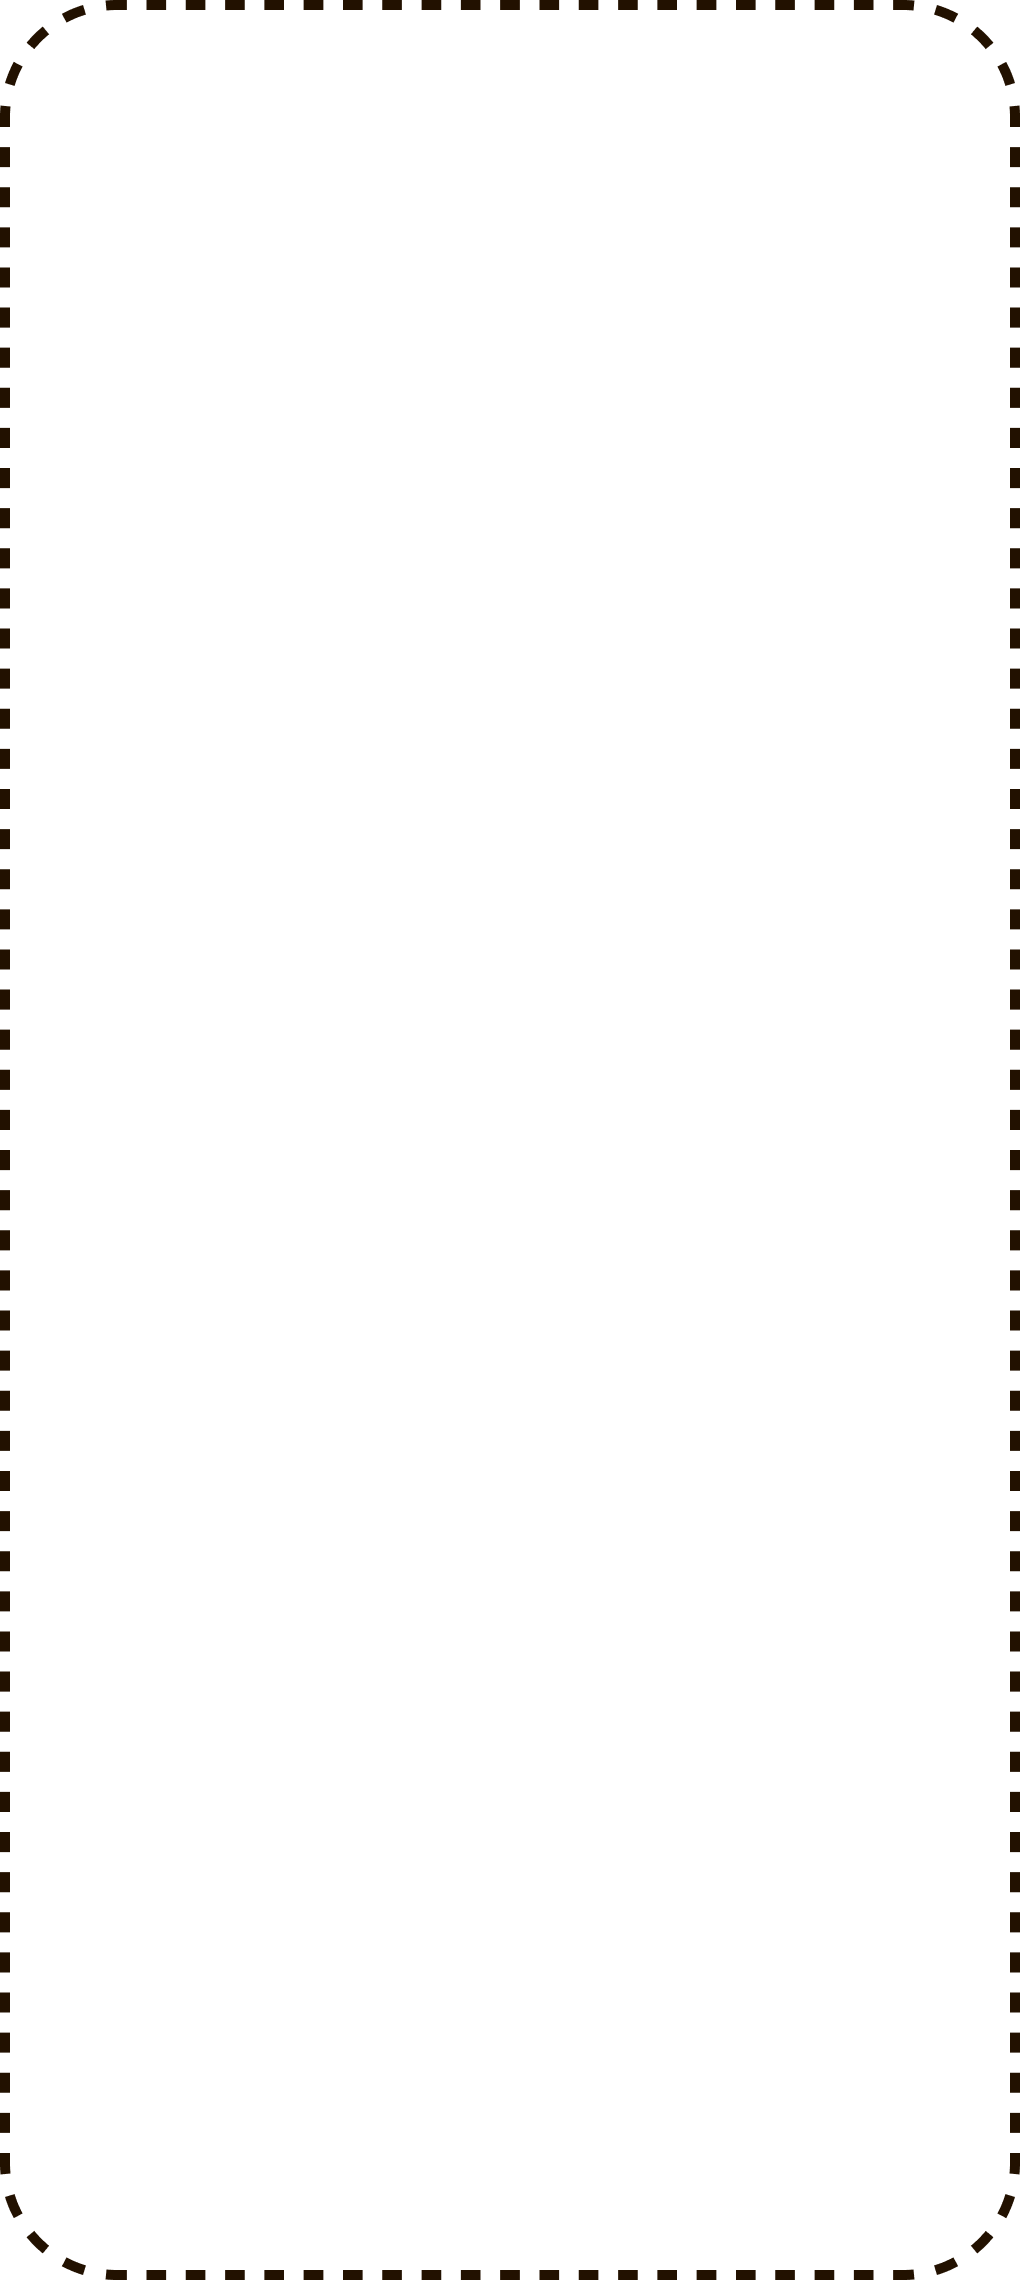
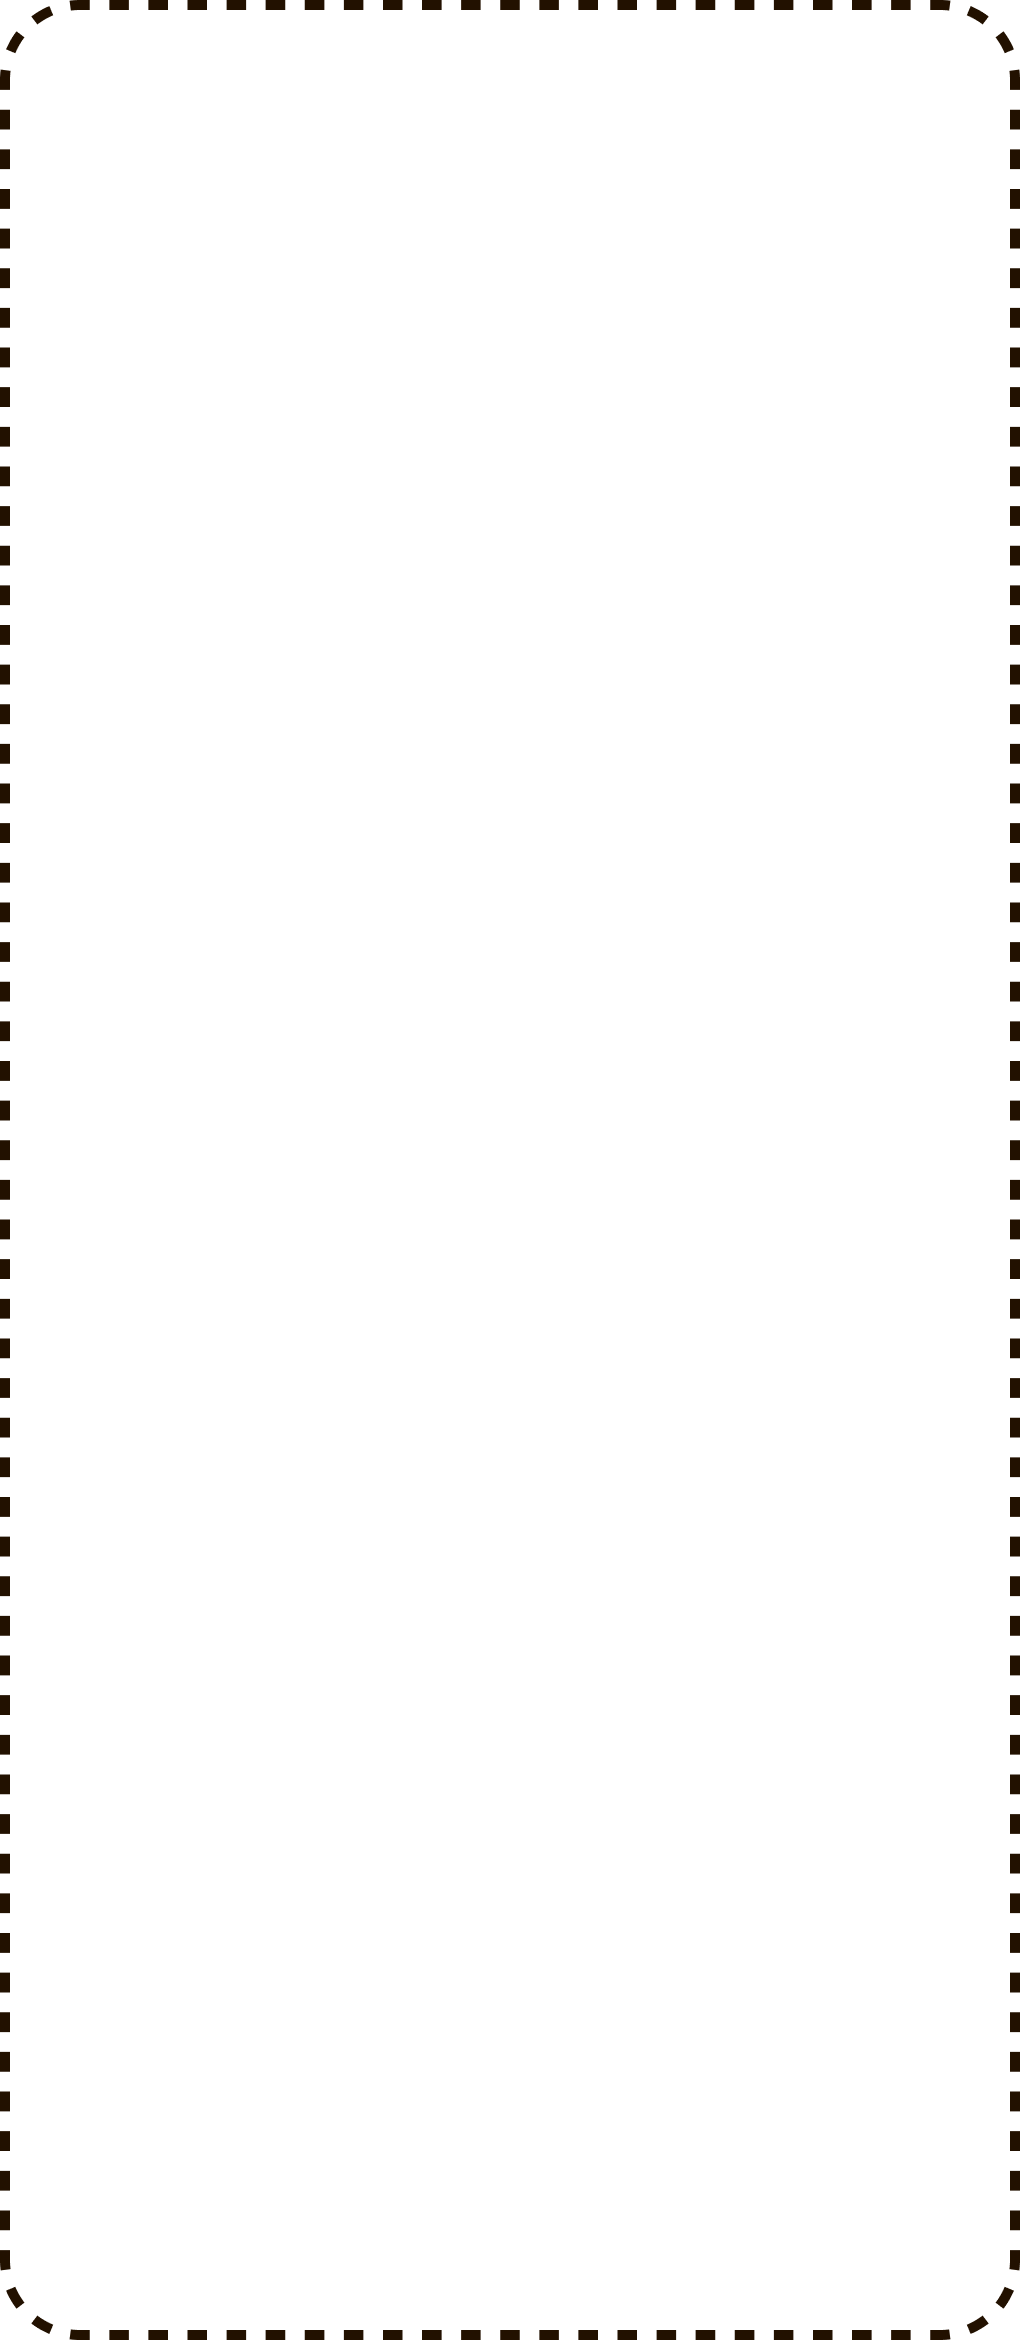
Updated dashed lines and screen size

diff --git a/main.qml b/main.qml
@@ -7,7 +7,7 @@ import QtQuick.Controls 2.12
 Window {
     id: root
     width: 411
-    height: 891
+    height: 914
     visible: true
     visibility: "FullScreen"
     color: "#503929"
@@ -18,10 +18,10 @@ Window {
         x: 11.5
         y: 11.5
         source: "Home_Page_Dashed_Lines.png"
-        width: 388//1010
-        height: 868//2270
+        width: 389
+        height: 891
         sourceSize.width: 1020
-        sourceSize.height: 2280
+        sourceSize.height: 2340
         //scale: scaleCtx.scale
         fillMode: Image.PreserveAspectFit
     }
